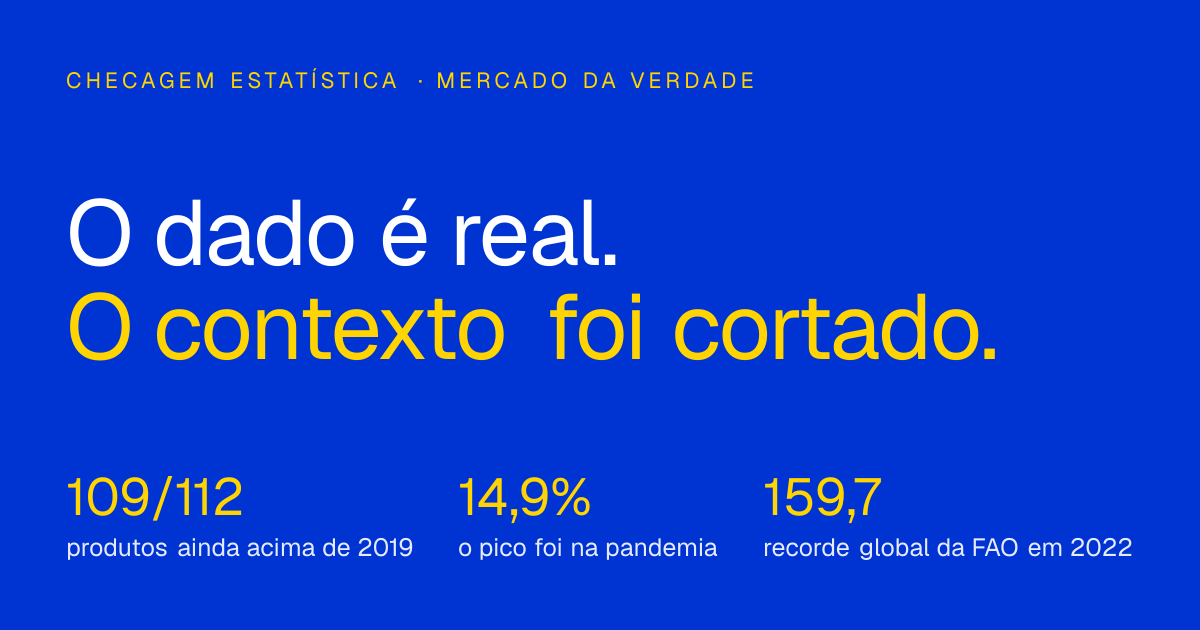
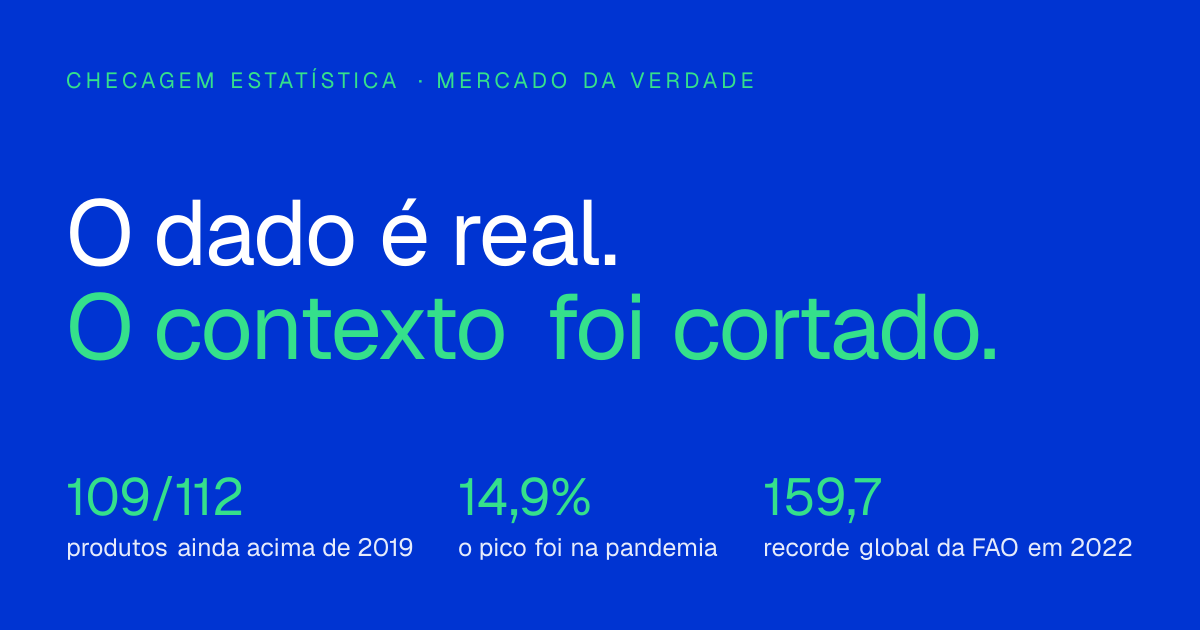
Troca o destaque de amarelo-alerta por verde de verificação
O token --yellow vira --accent (#35e08b), aplicado a logo, eyebrows, números
do hero, bordas e cabeçalhos. Sobre o azul o verde mantém a mesma força de
contraste e lê como "verificado" em vez de "alerta".

Ajuste de semântica na tabela de produtos, que o verde exigia:
- coluna da janela 2023-2026 fica neutra (pintá-la de verde reforçaria
  justamente a leitura que o site contesta)
- coluna do acumulado fica branca em negrito; o verde passa a marcar só o
  caso raro de preço de fato abaixo de 2019

OG image regenerada com a nova paleta.

diff --git a/src/components/Auditoria.tsx b/src/components/Auditoria.tsx
@@ -38,8 +38,8 @@ export default function Auditoria() {
             [`${CAIU_MAS_AINDA_CARO} desses ${CAIU_NO_LULA}`, "caíram, mas seguem acima do preço de 2019"],
             [`${TOTAL - ACIMA_DE_2019}`, "produtos estão de fato abaixo do nível de 2019"],
           ].map(([n, k]) => (
-            <div key={k} style={{ background: "var(--blue-dd)", padding: "22px 18px", borderTop: "4px solid var(--yellow)" }}>
-              <div className="disp" style={{ fontSize: "clamp(26px,3.4vw,38px)", color: "var(--yellow)", lineHeight: 1 }}>{n}</div>
+            <div key={k} style={{ background: "var(--blue-dd)", padding: "22px 18px", borderTop: "4px solid var(--accent)" }}>
+              <div className="disp" style={{ fontSize: "clamp(26px,3.4vw,38px)", color: "var(--accent)", lineHeight: 1 }}>{n}</div>
               <div className="stat-k">{k}</div>
             </div>
           ))}
@@ -64,9 +64,9 @@ export default function Auditoria() {
           ] as [Filtro, string][]).map(([k, t]) => (
             <button key={k} onClick={() => setFiltro(k)} className="mono"
               style={{
-                background: filtro === k ? "var(--yellow)" : "transparent",
+                background: filtro === k ? "var(--accent)" : "transparent",
                 color: filtro === k ? "var(--ink)" : "rgba(255,255,255,.85)",
-                border: "2px solid " + (filtro === k ? "var(--yellow)" : "rgba(255,255,255,.28)"),
+                border: "2px solid " + (filtro === k ? "var(--accent)" : "rgba(255,255,255,.28)"),
                 padding: "11px 14px", fontSize: 12, fontWeight: 700, letterSpacing: ".06em",
                 textTransform: "uppercase", cursor: "pointer",
               }}>
@@ -82,7 +82,7 @@ export default function Auditoria() {
                 <th style={{ padding: "12px 14px", fontWeight: 700 }}>Produto</th>
                 <th style={{ padding: "12px 14px", textAlign: "right" }}>Janela 2019-2022</th>
                 <th style={{ padding: "12px 14px", textAlign: "right" }}>Janela 2023-2026</th>
-                <th style={{ padding: "12px 14px", textAlign: "right", background: "var(--yellow)", color: "var(--ink)" }}>
+                <th style={{ padding: "12px 14px", textAlign: "right", background: "var(--accent)", color: "var(--ink)" }}>
                   Preço hoje vs. jan/2019
                 </th>
               </tr>
@@ -92,12 +92,15 @@ export default function Auditoria() {
                 <tr key={p.n} style={{ background: i % 2 ? "rgba(255,255,255,.04)" : "transparent" }}>
                   <td style={{ padding: "10px 14px" }}>{p.n[0].toUpperCase() + p.n.slice(1)}</td>
                   <td style={{ padding: "10px 14px", textAlign: "right", color: "rgba(255,255,255,.7)" }}>{fmt(p.b)}</td>
-                  <td style={{ padding: "10px 14px", textAlign: "right", color: p.l < 0 ? "#5fd07f" : "rgba(255,255,255,.7)" }}>
+                  {/* Coluna neutra de proposito: e a variacao que a peca original destaca,
+                      e pinta-la de verde reforcaria justamente a leitura que o site contesta. */}
+                  <td style={{ padding: "10px 14px", textAlign: "right", color: "rgba(255,255,255,.7)" }}>
                     {fmt(p.l)}
                   </td>
                   <td style={{
                     padding: "10px 14px", textAlign: "right", fontWeight: 700,
-                    color: p.a > 0 ? "var(--yellow)" : "#5fd07f",
+                    // verde fica reservado ao caso raro de preco de fato abaixo de 2019
+                    color: p.a > 0 ? "#ffffff" : "var(--accent)",
                   }}>
                     {fmt(p.a)}
                   </td>
@@ -112,8 +115,8 @@ export default function Auditoria() {
           </table>
         </div>
 
-        <div className="verdict" style={{ background: "var(--blue-dd)", borderLeftColor: "var(--yellow)" }}>
-          <span className="verdict-label" style={{ color: "var(--yellow)" }}>Veredito</span>
+        <div className="verdict" style={{ background: "var(--blue-dd)", borderLeftColor: "var(--accent)" }}>
+          <span className="verdict-label" style={{ color: "var(--accent)" }}>Veredito</span>
           <p style={{ color: "#fff" }}>
             O óleo de soja aparece como &quot;mais barato com Lula&quot; (−14,2%). Verdade — e ainda assim ele custa{" "}
             <strong>135% a mais</strong> que em 2019. O arroz caiu 1,9% e segue 47,6% acima. Uma queda depois de

diff --git a/src/components/Hero.tsx b/src/components/Hero.tsx
@@ -3,14 +3,14 @@ export default function Hero() {
     <section id="topo" style={{ background: "var(--blue)", color: "#fff", padding: "72px 0 0", overflow: "hidden" }}>
       <div className="wrap">
         <span className="mono"
-          style={{ display: "inline-block", background: "var(--yellow)", color: "var(--ink)", fontSize: 11.5,
+          style={{ display: "inline-block", background: "var(--accent)", color: "var(--ink)", fontSize: 11.5,
             fontWeight: 700, letterSpacing: ".16em", padding: "7px 12px", textTransform: "uppercase" }}>
           ✓ Checagem de método, não de partido
         </span>
 
         <h1 style={{ fontSize: "clamp(42px,9vw,104px)", margin: "22px 0 0", maxWidth: "16ch" }}>
           O dado é real.<br />
-          <span style={{ color: "var(--yellow)" }}>O contexto foi cortado.</span>
+          <span style={{ color: "var(--accent)" }}>O contexto foi cortado.</span>
         </h1>
 
         <p style={{ fontSize: "clamp(17px,2.2vw,22px)", maxWidth: "58ch", marginTop: 22, color: "rgba(255,255,255,.9)" }}>
@@ -26,8 +26,8 @@ export default function Hero() {
             ["159,7", "o índice global de alimentos da FAO bateu recorde em mar/2022"],
             ["0", "provas de fraude nos números — o problema está na régua, não na planilha"],
           ].map(([n, k]) => (
-            <div key={k} style={{ background: "var(--blue-d)", padding: "24px 20px", borderTop: "4px solid var(--yellow)" }}>
-              <div className="stat-n" style={{ color: "var(--yellow)" }}>{n}</div>
+            <div key={k} style={{ background: "var(--blue-d)", padding: "24px 20px", borderTop: "4px solid var(--accent)" }}>
+              <div className="stat-n" style={{ color: "var(--accent)" }}>{n}</div>
               <div className="stat-k" style={{ color: "rgba(255,255,255,.72)" }}>{k}</div>
             </div>
           ))}

diff --git a/src/components/Header.tsx b/src/components/Header.tsx
@@ -26,11 +26,11 @@ export default function Header() {
         style={{ display: "flex", alignItems: "center", justifyContent: "space-between", height: 66, gap: 16 }}
       >
         <a href="#topo" style={{ color: "#fff", textDecoration: "none", lineHeight: 1 }}>
-          <span className="mono" style={{ fontSize: 9.5, letterSpacing: ".22em", color: "var(--yellow)", display: "block" }}>
+          <span className="mono" style={{ fontSize: 9.5, letterSpacing: ".22em", color: "var(--accent)", display: "block" }}>
             CHECAGEM ESTATÍSTICA
           </span>
           <span className="disp" style={{ fontSize: 22, letterSpacing: "-.01em" }}>
-            MERCADO DA <span style={{ color: "var(--yellow)" }}>VERDADE</span>
+            MERCADO DA <span style={{ color: "var(--accent)" }}>VERDADE</span>
           </span>
         </a>
 

diff --git a/src/components/Ibge.tsx b/src/components/Ibge.tsx
@@ -54,8 +54,8 @@ export default function Ibge() {
           </div>
         </div>
 
-        <div className="verdict" style={{ background: "var(--blue-dd)", borderLeftColor: "var(--yellow)" }}>
-          <span className="verdict-label" style={{ color: "var(--yellow)" }}>Veredito</span>
+        <div className="verdict" style={{ background: "var(--blue-dd)", borderLeftColor: "var(--accent)" }}>
+          <span className="verdict-label" style={{ color: "var(--accent)" }}>Veredito</span>
           <p style={{ color: "#fff" }}>
             Acusar o IBGE de fraude é injusto com quem produz os dados e desvia a atenção do problema de verdade.
             O dado é confiável; a régua aplicada sobre ele na propaganda é que é escolhida. Ao mesmo tempo, a crise

diff --git a/src/components/Metodologia.tsx b/src/components/Metodologia.tsx
@@ -49,7 +49,7 @@ export default function Metodologia() {
       <footer className="sec--navy" style={{ padding: "48px 0 40px", borderTop: "4px solid var(--blue)" }}>
         <div className="wrap">
           <div className="disp" style={{ fontSize: 30, color: "#fff" }}>
-            MERCADO DA <span style={{ color: "var(--yellow)" }}>VERDADE</span>
+            MERCADO DA <span style={{ color: "var(--accent)" }}>VERDADE</span>
           </div>
           <p style={{ maxWidth: "70ch", marginTop: 14, color: "rgba(255,255,255,.78)", fontSize: 15.5 }}>
             Projeto independente e de autoria identificada, feito por conta própria.{" "}

diff --git a/src/app/globals.css b/src/app/globals.css
@@ -19,7 +19,10 @@
   --sky-l: #cfe0ec;
 
   /* apoio */
-  --yellow: #ffd400;
+  /* verde de verificacao: destaque de marca sobre azul/navy.
+     Nao confundir com --green, que e semantico ("correto"). */
+  --accent: #35e08b;
+  --accent-d: #12b76a;
   --green: #0e8a2f;
   --green-d: #0a6b24;
   --amber: #c9942a;
@@ -96,7 +99,7 @@ h1, h2, h3, .disp {
   background: currentColor;
   display: inline-block;
 }
-.sec--navy .eyebrow, .sec--blue .eyebrow { color: var(--yellow); }
+.sec--navy .eyebrow, .sec--blue .eyebrow { color: var(--accent); }
 
 .sec-title { font-size: clamp(34px, 5.6vw, 62px); max-width: 20ch; }
 .sec-lead {
